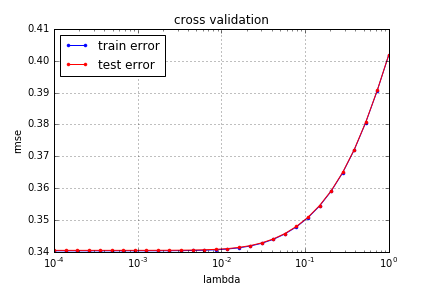
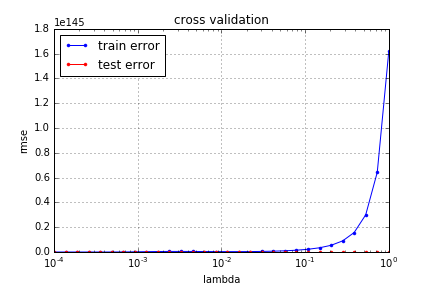
My tests

diff --git a/projects/project1/scripts/costs.py b/projects/project1/scripts/costs.py
@@ -36,4 +36,4 @@ def calculate_nll(y, tx, w):
 
 	loss = xw - yxw
 
-	return -1/N * np.sum(loss, axis=0)
+	return 1/N * np.sum(loss, axis=0)
